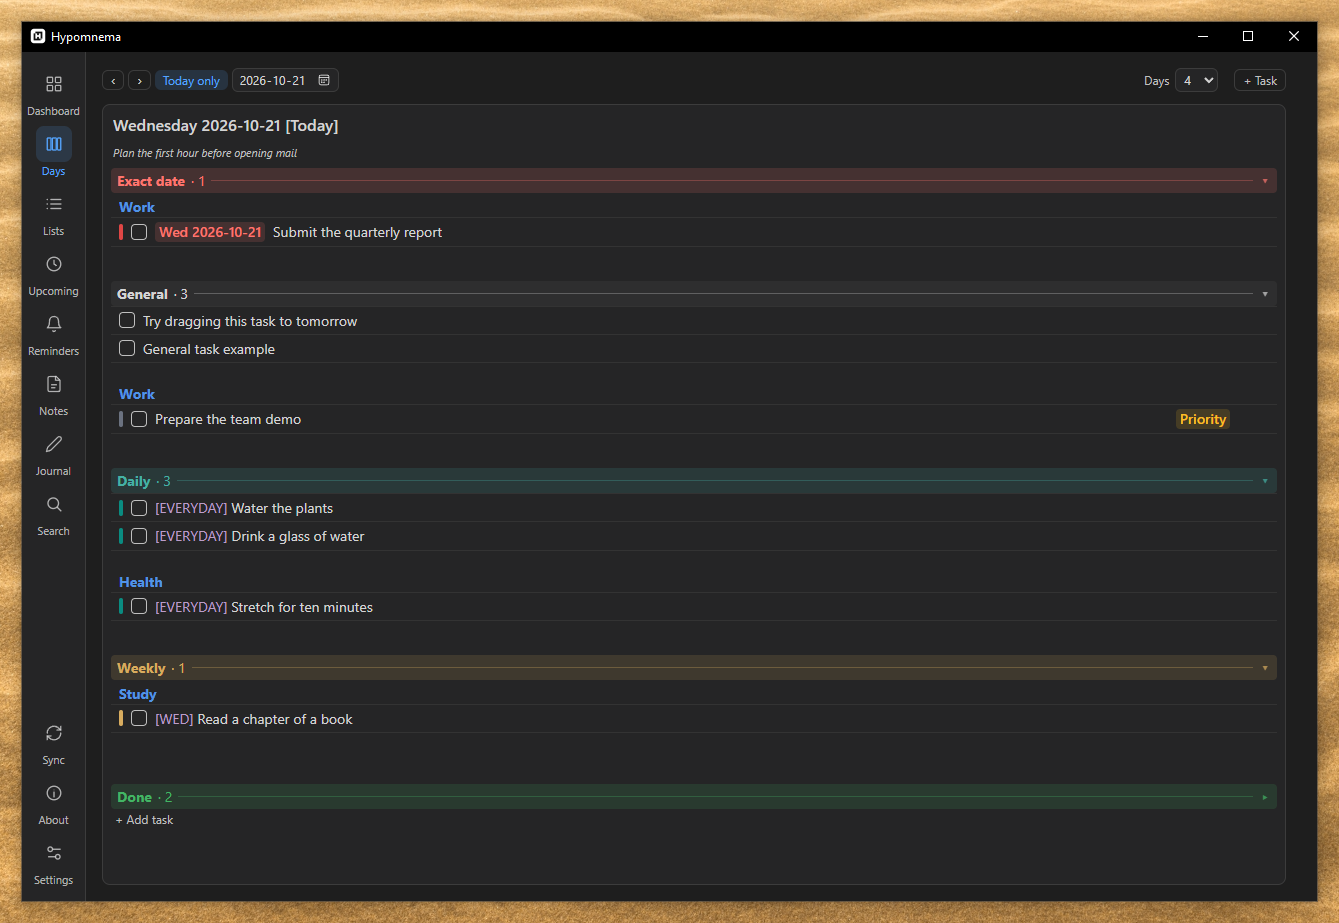
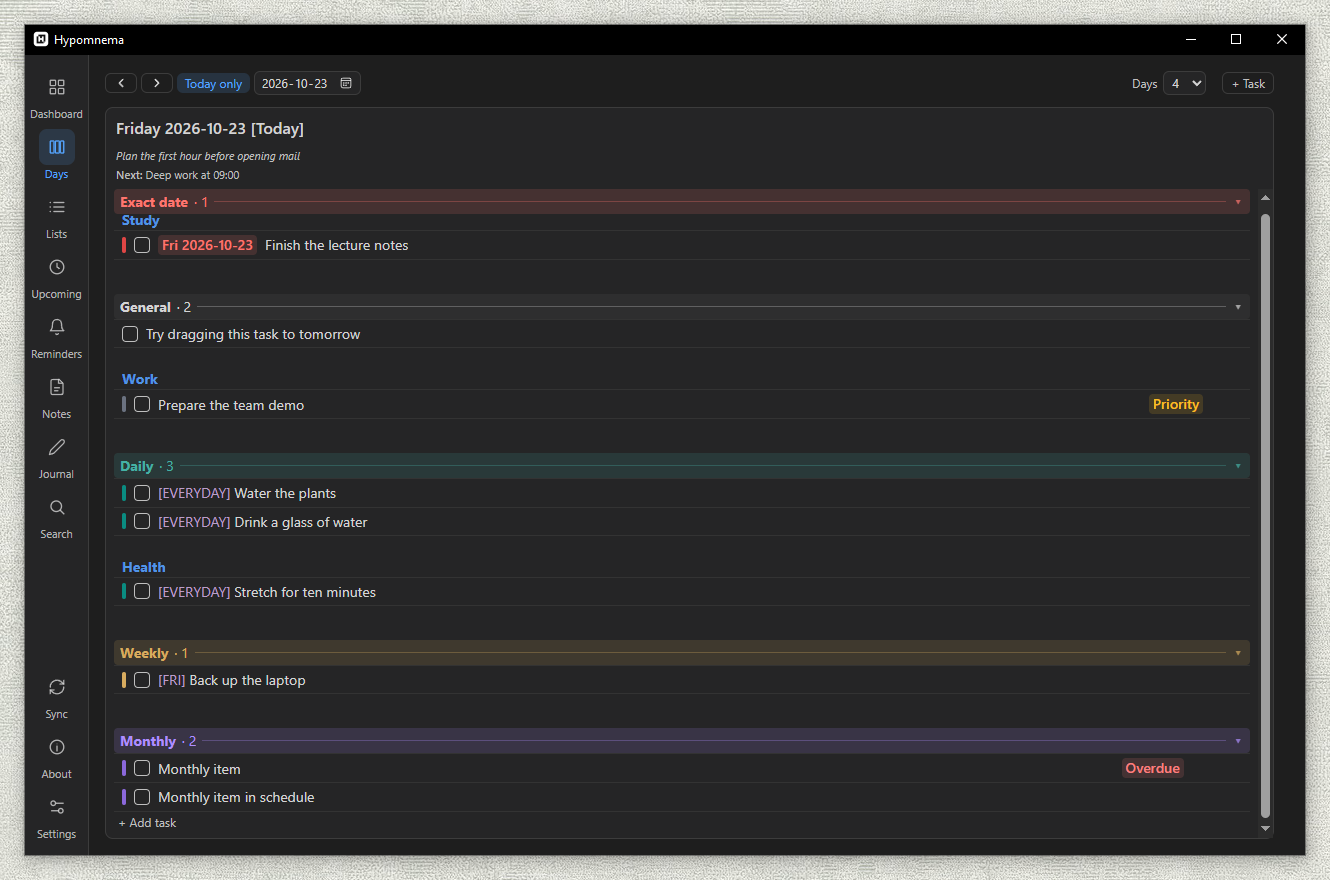
README screenshots: retaken, cropped to one size (1330x880, window 24px from every edge); the Dashboard switches to its light-theme shot for light-theme readers, Reminders and Journal added

Changed region(s): [[0.0, 0.0, 1.0, 1.0], [0.0925, 0.5216, 0.2774, 0.675]]

diff --git a/README.md b/README.md
@@ -15,9 +15,12 @@
 </p>
 
 <p align="center">
-  <img src="docs/screenshots/dashboard.png" alt="The Dashboard: a week of days over the backlog lists">
+  <picture>
+    <source media="(prefers-color-scheme: light)" srcset="docs/screenshots/dashboard-light.png">
+    <img src="docs/screenshots/dashboard.png" alt="The Dashboard: a week of days over the backlog lists">
+  </picture>
   <br>
-  <em>The Dashboard: a week of days on top, your backlog lists below.</em>
+  <em>The Dashboard: a week of days on top, your backlog lists below. Dark or light theme, each with its own color scheme.</em>
 </p>
 
 Hypomnema keeps a week of tasks, a journal and your notes together, and keeps all of it in a folder you choose: plain Markdown and YAML files plus a local database. There is no account, no server and no telemetry. Repeating tasks, dated events and birthdays come from rules in YAML files; the app's forms and a text editor write the same files, and the engine that turns rules into tasks never duplicates one or overwrites an edit. Syncing between your devices is optional and goes through a hidden app folder in your own Google Drive.
@@ -54,6 +57,13 @@ A vertical rail on the left holds the sections; their order is configurable and 
 **Upcoming** has three tabs: Scheduled (one-off dated events), Birthdays (with age when the year is known) and Recurring (cron rules). **Reminders** edits the three files behind the day columns: the weekly focus phrase, the reminders by day type and the daily schedule. **Calendar** is a month grid with real tasks plus projections of future rule occurrences (the horizon is configurable per cadence). **Review** and **History** show how the week went, and a month-by-month archive with completion stats and streaks for daily rules.
 
 **Journal** keeps one Markdown entry per date (`journal/<year>/<YYYY-MM-DD>.md`), created from a configurable template on first save, with "on this day" entries from earlier years.
+
+<p align="center">
+  <img src="docs/screenshots/reminders.png" width="49%" alt="Reminders: the weekly focus phrases and what is in effect right now">
+  <img src="docs/screenshots/journal.png" width="49%" alt="Journal: entries by year and month, today's entry from the template">
+  <br>
+  <em>Reminders: the week's focus, today's reminder and the next block. Journal: one entry per day, from a template.</em>
+</p>
 
 **Notes** is the knowledge base: a tree of Markdown files (the vault root or a folder set in Settings), an editor with live highlighting, `[[wiki links]]` and backlinks, full-text search, a `.trash` folder (emptied after 30 days) and a `.hypomnemaignore` file to hide paths from the tree. The config files are edited here too, validated on save.
 
